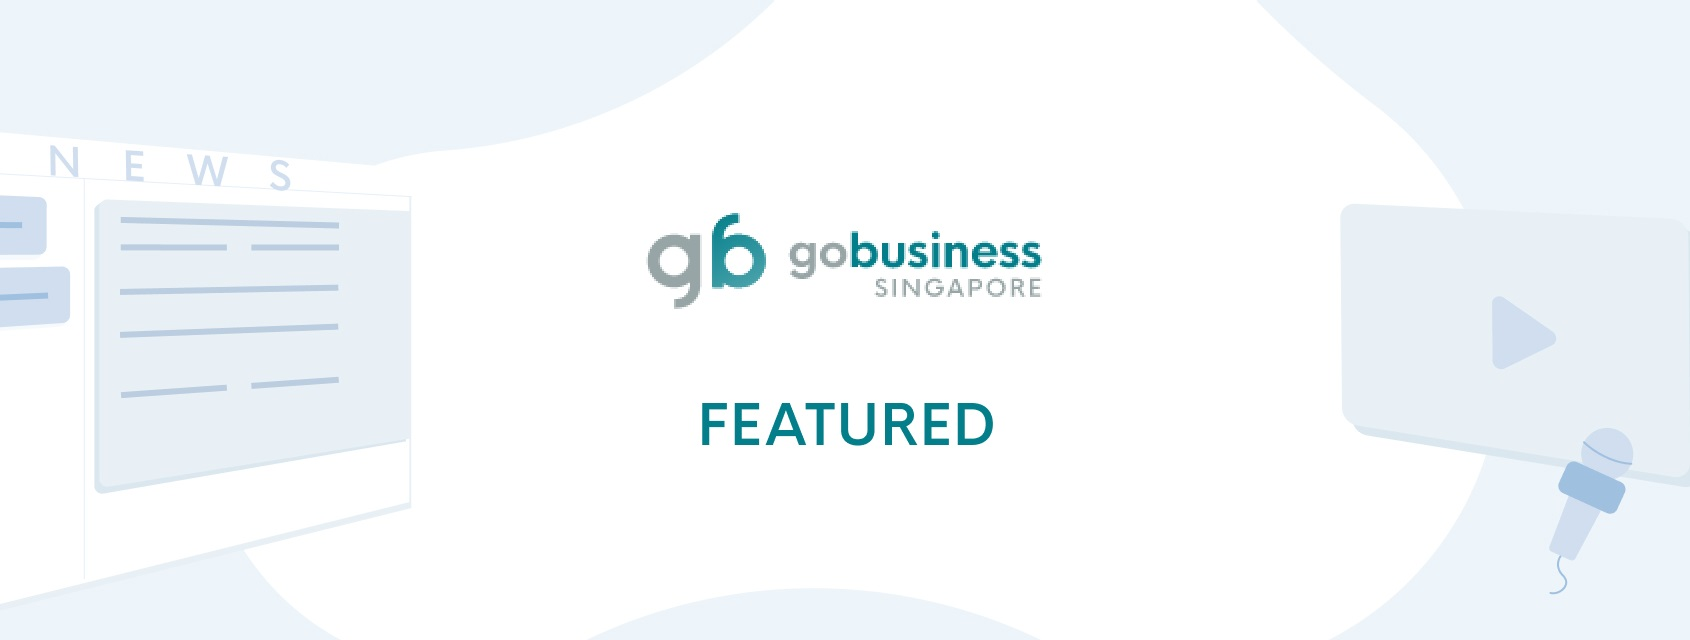
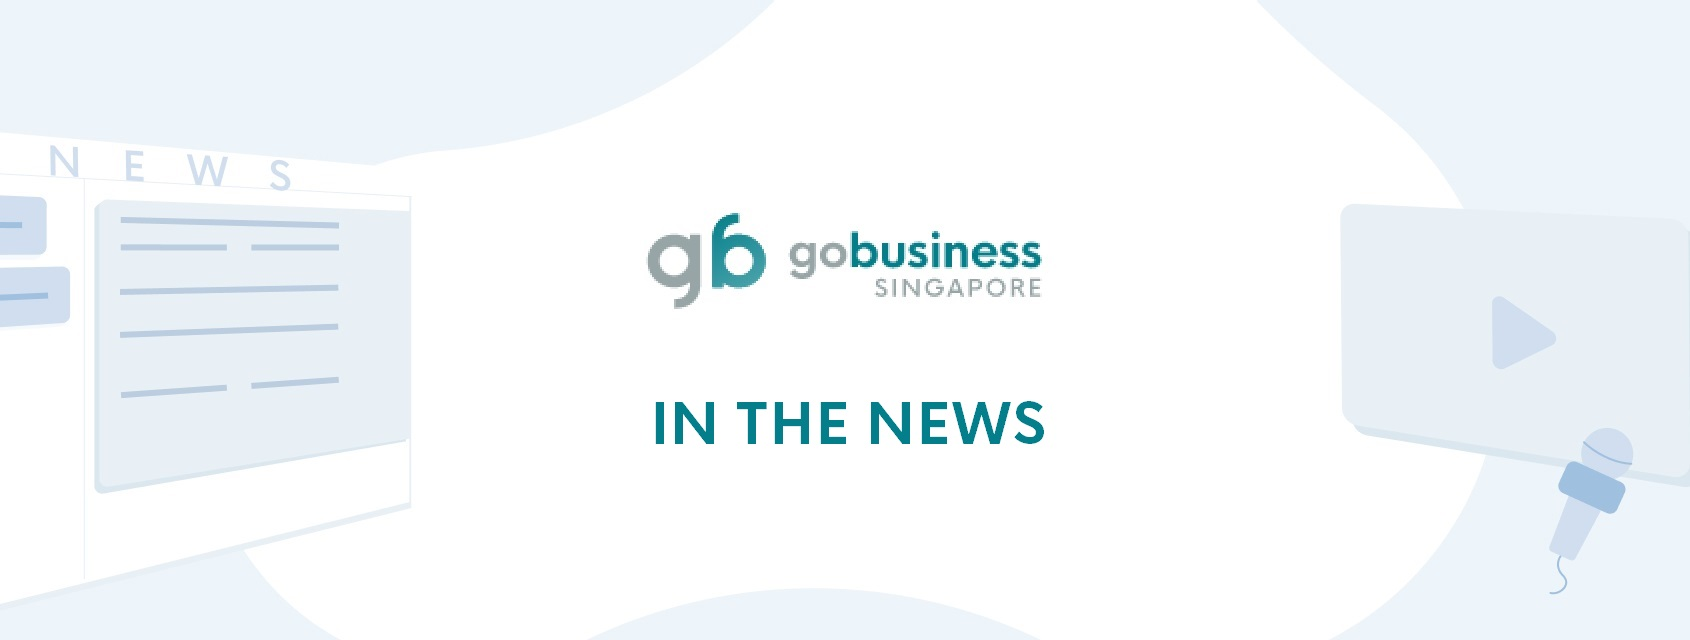
[NEWS]

Changed region(s): [[0.3692, 0.625, 0.6154, 0.7188]]

diff --git a/_layouts/homepage-gobusiness.html b/_layouts/homepage-gobusiness.html
@@ -746,11 +746,11 @@ layout: skeleton
     </div>
 
     <div class="section-5">
-      <p class="uppercase-text">News And Media</p>
+      <p class="uppercase-text">News And Updates</p>
       <h1>Be in the know</h1>
-      {% include news-and-media.html %}
+      {% include news-and-updates.html %}
       <div class="view-more break-desktop">
-        {% include primary-btn.html href="/news-and-media/" text="View More News" %}
+        {% include primary-btn.html href="/news-and-updates/" text="View More" %}
       </div>
     </div>
 

diff --git a/news-and-updates/news/index.html b/news-and-updates/news/index.html
@@ -1,6 +1,6 @@
 ---
 layout: resources-alt
-title: Media Releases
+title: News
 ---
 
 Latest announcements on our initiatives, collaborations and events, including Singapore’s monthly trade statistics.

diff --git a/news-and-updates/updates/index.html b/news-and-updates/updates/index.html
@@ -1,0 +1,6 @@
+---
+layout: resources-alt
+title: Updates
+---
+
+Latest updates on GoBusiness Singapore, market developments and more.

diff --git a/news-and-updates/index.html b/news-and-updates/index.html
@@ -1,4 +1,4 @@
 ---
 layout: resources
-title: News and Media
+title: News and Updates
 ---

diff --git a/news-and-updates/updates/_posts/2021-04-30-post-gobusiness-portal.md b/news-and-updates/updates/_posts/2021-04-30-post-gobusiness-portal.md
@@ -1,0 +1,28 @@
+---
+layout: post
+title: Launch of GoBusiness
+permalink: /news-and-updates/updates/gobusiness-portal
+published: true
+---
+
+## Launch of GoBusiness
+
+![gobusiness](/images/news/News_GoBiz Portal.jpg)
+
+GoBusiness launches as Singapore’s go-to platform for businesses in Singapore to access government e-services and resources.
+
+### One-stop access to e-services for businesses
+
+GoBusiness is an online platform to connect business owners to various Government e-services and resources. This includes applying for registering a business, applying for licences and grants, and more. Jointly developed by Ministry of Trade and Industry (MTI), the Smart Nation and Digital Government Office (SNDGO), and GovTech, it also offers personalised help and recommendations for your business with our [e-Advisers](/e-services/guides-for-biz/).
+
+### A new home for existing e-services
+
+You can now access the following e-services on GoBusiness:
+- GoBusiness Licensing, Food Services Licensing
+- Gov Assist Portal
+- Covid-19 Portal
+
+### Get guidance with e-Advisers
+Find out what your business needs easily with our e-Advisers. Simply answer a few questions about your business and get helpful recommendations on grants you can apply for, next steps to start a business, and more. We have 4 e-Advisers to help you use GoBusiness effectively.
+
+Read more on our [About Us page](/about-us/).

diff --git a/news-and-updates/updates/_posts/2021-02-16-post-budget-2021.md b/news-and-updates/updates/_posts/2021-02-16-post-budget-2021.md
@@ -1,0 +1,34 @@
+---
+layout: post
+title: Budget 2021
+permalink: /news-and-updates/news/budget-2021
+published: true
+---
+
+## Budget 2021
+
+![budget2021](/images/news/News_Budget 2021.jpg)
+
+Deputy Prime Minister, Coordinating Minister for Economic Policies and Minister for Finance, Mr Heng Swee Keat, delivered the Budget Statement on Tuesday, 16 February 2021 in Parliament.
+
+### Government Assistance Schemes
+
+**Newly announced:**
+- Part-Time Re-employment Grant (PTRG)
+- Senior Worker Early Adopter Grant (SWEAG)
+- Chief Technology Officer, or CTO-as-a-Service initiative (CTOaaS)
+- Corporate Venture Launchpad (VCL)
+- Digital Leaders Programme
+- Emerging Technology Programme
+
+**Enhanced or Extended:**
+- Capability Transfer Programme (CTP)
+- Enterprise Development Grant (EDG)
+- Jobs Growth Incentive (JGI)
+- Job Support Scheme (JSS) Extension for employers in Tier 1 and 2 sectors
+- Market Readiness Assistance (MRA) Grant
+- Open Innovation Platform (OIP)
+- Productivity Solutions Grant (PSG)
+- Wage Credit Scheme
+
+View all the [Budget 2021 Government Assistance](/gov-assist/budget-2021/) on GoBusiness.

diff --git a/news-and-updates/news/_posts/2021-06-23-post-gt-press-statement.md b/news-and-updates/news/_posts/2021-06-23-post-gt-press-statement.md
@@ -1,11 +1,11 @@
 ---
 layout: post
 title:  'GovTech: More improvements in the pipeline for GoBusiness as part of Government digitalisation'
-permalink: /news-and-media/media-releases/gt-press-statement
-published: false
+permalink: /news-and-updates/news/gt-press-statement
+published: true
 ---
 
-## GoBusiness in the News
+<!-- ## GoBusiness in the News -->
 
 ![media feature](/images/news/News_Media Feature.jpg)
 

diff --git a/news-and-updates/news/_posts/2021-06-12-post-st-feature.md b/news-and-updates/news/_posts/2021-06-12-post-st-feature.md
@@ -1,11 +1,11 @@
 ---
 layout: post
 title:  'The Straits Times: Business owners benefit from simpler licensing via GoBusiness'
-permalink: /news-and-media/media-releases/st-feature
-published: false
+permalink: /news-and-updates/news/st-feature
+published: true
 ---
 
-## GoBusiness in the News
+<!-- ## GoBusiness in the News -->
 
 ![media feature](/images/news/News_Media Feature.jpg)
 

diff --git a/news-and-updates/news/_posts/2020-12-11-post-singapore-and-shanghai-deepen-collaboration-in-financial-services-and-innovation-to-expand-gateway-to-respective-regions.md b/news-and-updates/news/_posts/2020-12-11-post-singapore-and-shanghai-deepen-collaboration-in-financial-services-and-innovation-to-expand-gateway-to-respective-regions.md
@@ -1,7 +1,7 @@
 ---
 layout: post
 title:  Singapore and Shanghai deepen collaboration in financial services and innovation to expand gateway to respective regions
-permalink: /news-and-media/media-releases/sample1
+permalink: /news-and-updates/news/sample1
 published: false
 ---
 ![about us image](/images/li-yang-5h_dMuX_7RE-unsplash1.jpg)

diff --git a/news-and-updates/news/_posts/2021-04-19-post-updated-advisory.md b/news-and-updates/news/_posts/2021-04-19-post-updated-advisory.md
@@ -1,7 +1,7 @@
 ---
 layout: post
 title:  Updated Advisory
-permalink: /news-and-media/media-releases/sample1
+permalink: /news-and-updates/news/sample1
 published: false
 ---
 ![about us image](/images/ST_20200809_TFNIGHTLIFE_5875148.jpg)
